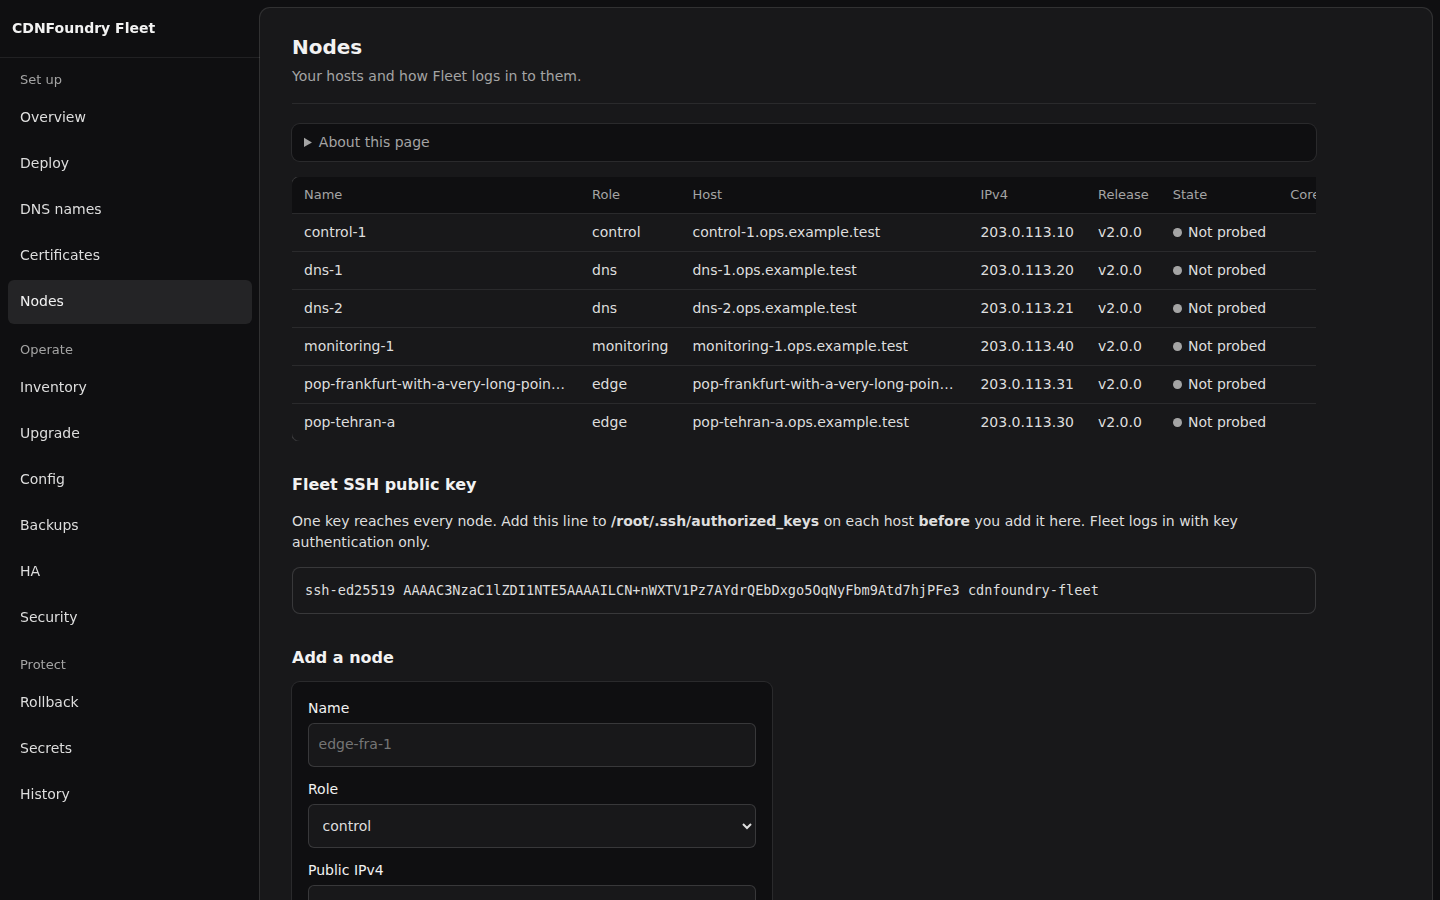
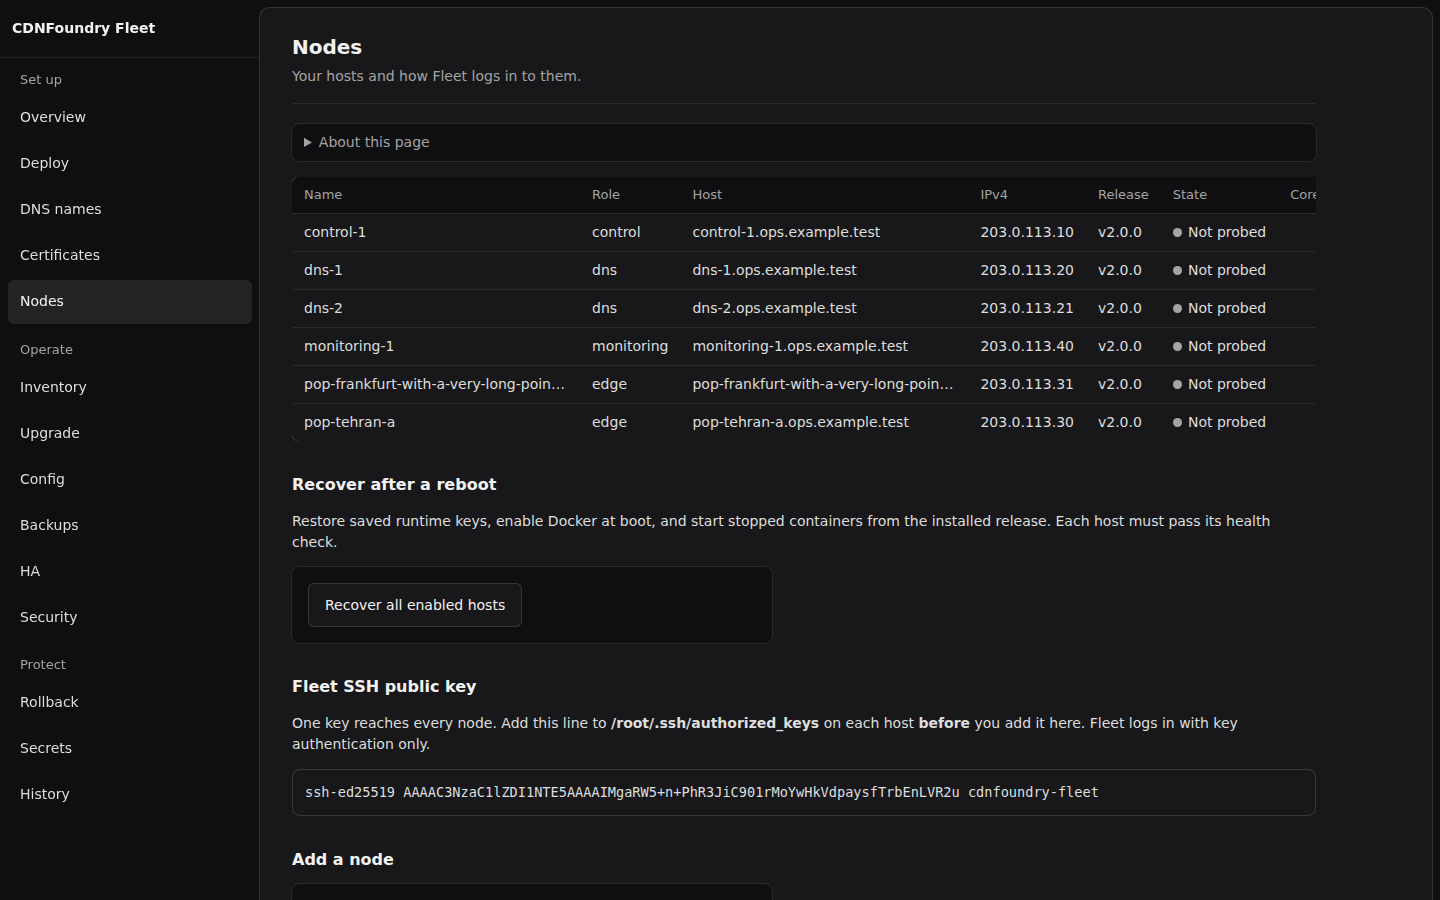
feat: expose host recovery in Fleet web

Changed region(s): [[0.1875, 0.5289, 0.875, 0.6844], [0.1875, 0.7156, 0.875, 0.84], [0.1875, 0.8711, 0.75, 0.9956]]

diff --git a/tests/browser/fleet-specs/fleet.spec.ts b/tests/browser/fleet-specs/fleet.spec.ts
@@ -260,3 +260,17 @@ test('management networks take several CIDRs and are added and removed one at a 
     await page.getByRole('button', { name: 'Remove 2001:db8::/32' }).click();
     await expect(page.getByTestId('management-networks-open')).toBeVisible();
 });
+
+test('recovery offers the fleet and one host, and reports missing saved keys', async ({ page }) => {
+    await page.goto('/nodes/pop-tehran-a');
+    await expect(page.getByRole('button', { name: 'Recover this host', exact: true })).toBeEnabled();
+    await expectAccessible(page);
+    await noHorizontalOverflow(page);
+    await page.goto('/nodes');
+    await page.getByRole('button', { name: 'Recover all enabled hosts', exact: true }).click();
+    await expect(page).toHaveURL(/\/jobs\//);
+    await expect(page.locator('[data-state="failed"]')).toBeVisible({ timeout: 30_000 });
+    await expect(page.locator('main')).toContainText('existing runtime material is missing from the vault');
+    await expectAccessible(page);
+    await noHorizontalOverflow(page);
+});

diff --git a/scripts/cdnfoundry_fleet/web.py b/scripts/cdnfoundry_fleet/web.py
@@ -783,7 +783,9 @@ class FleetWeb:
             key_block = ("<h2>Fleet SSH public key</h2><p>One key reaches every node. Add this line to <b>/root/.ssh/authorized_keys</b> on each host "
                          "<b>before</b> you add it here. Fleet logs in with key authentication only.</p>"
                          f'<pre class="log" tabindex="0" aria-label="Fleet SSH public key">{esc(self.fleet_public_key())}</pre>')
-            return 200, self.layout(path, "Nodes", listing + key_block + "<h2>Add a node</h2>" + self.action_form("/nodes/add", "Add node and show plan", primary=True, fields=fields), flash)
+            recovery = ('<h2>Recover after a reboot</h2><p>Restore saved runtime keys, enable Docker at boot, and start stopped containers from the installed release. Each host must pass its health check.</p>'
+                        + self.action_form("/recover", "Recover all enabled hosts")) if nodes else ""
+            return 200, self.layout(path, "Nodes", listing + recovery + key_block + "<h2>Add a node</h2>" + self.action_form("/nodes/add", "Add node and show plan", primary=True, fields=fields), flash)
         if path.startswith("/nodes/") and path.endswith("/logs"):
             return self._logs_page(path, nodes, query)
         if path.startswith("/nodes/"):
@@ -806,7 +808,9 @@ class FleetWeb:
                    '<label>Continent code<input name="continent" value="NA" maxlength="2" required placeholder="NA"></label>') if enroll else ""
             body = (facts + self._node_hardware(name, node) + "<h2>SSH login</h2>" + f"<p>Fleet logs in as <b>{esc(login.user)}@{esc(login.host)}:{login.port}</b>. The Fleet key must be on this host (see the <a href=\"/deploy#connect\">Deploy page</a>).</p>" + ssh_form
                     + "<h2>Install only this host</h2><p>Most people use the <a href=\"/deploy\">Deploy page</a> to install everything in order.</p><ol>" + "".join(f"<li>{esc(s.label())}</li>" for s in plan.steps) + "</ol>"
-                    + self.action_form(f"/nodes/{esc(name)}/bootstrap", "Install and start this node", primary=True, fields=geo))
+                    + self.action_form(f"/nodes/{esc(name)}/bootstrap", "Install and start this node", primary=True, fields=geo)
+                    + '<h2>Recover after a reboot</h2><p>Restore this host\'s saved runtime keys and start stopped containers from its installed release.</p>'
+                    + self.action_form(f"/nodes/{esc(name)}/recover", "Recover this host"))
             return 200, self.layout(path, name, body, flash)
         if path == "/inventory":
             return 200, self.layout(path, "Inventory", self._inventory_page(nodes), flash)
@@ -1092,6 +1096,11 @@ class FleetWeb:
             return self._sync(f"configure-{feature}", save_feature, "/config", f"{feature.capitalize()} settings saved. Deploy the changes to send them to the hosts.")
         if path == "/config/apply":
             return job("Deploy changed configs", lambda e: e.apply_config(), "config")
+        if path == "/recover":
+            return job("Recover enabled hosts", lambda e: e.recover(), "recover")
+        if path.startswith("/nodes/") and path.endswith("/recover"):
+            name = path.split("/")[2]
+            return job(f"Recover {name}", lambda e: e.recover([name]), "recover")
         if path == "/rollback/run":
             need("ROLLBACK")
             return job("Roll back the fleet", lambda e: f"returned {e.rollback()}", "rollback")

diff --git a/tests/fleet/test_web.py b/tests/fleet/test_web.py
@@ -617,3 +617,24 @@ def test_management_networks_are_added_and_removed_one_at_a_time_from_the_config
     assert status == 400 and "Not in the management networks" in body
     status, body, _ = post(port, "/management-networks/add", {"csrf": "wrong", "networks": "192.0.2.0/24"})
     assert status == 400
+
+
+@pytest.mark.parametrize('path,names', [('/recover', None), ('/nodes/control-1/recover', ['control-1'])])
+def test_recovery_runs_the_shared_engine_as_a_background_job(served, monkeypatch, path, names):
+    from cdnfoundry_fleet.actions import Outcome
+    from cdnfoundry_fleet.engine import FleetEngine
+    web, port = served
+    add_node(web, port)
+    called = []
+    monkeypatch.setattr(FleetEngine, 'recover', lambda self, selected=None: called.append(selected) or Outcome(True, ['control-1']))
+    assert 'Recover all enabled hosts' in get(port, '/nodes')[1]
+    assert 'Recover this host' in get(port, '/nodes/control-1')[1]
+    status, _, response = post(port, path, {'csrf': web.csrf})
+    assert status == 303
+    assert 'Finished' in wait_job(port, response.getheader('Location'))
+    assert called == [names]
+
+
+def test_recovery_rejects_a_missing_csrf_token(served):
+    _, port = served
+    assert post(port, '/recover', {})[0] == 400

diff --git a/tests/fleet/test_recovery.py b/tests/fleet/test_recovery.py
@@ -64,6 +64,14 @@ def test_unknown_node_is_rejected(tmp_path, monkeypatch):
     assert not calls
 
 
+def test_explicitly_selected_disabled_node_is_rejected(tmp_path, monkeypatch):
+    runner, calls, _ = engine(tmp_path, monkeypatch)
+    runner.state()['nodes']['node']['enabled'] = False
+    with pytest.raises(ValidationError, match='Enable nodes before recovery'):
+        runner.recover(['node'])
+    assert not calls
+
+
 def test_release_mismatch_stops_before_provisioning(tmp_path, monkeypatch):
     runner, _, installed = engine(tmp_path, monkeypatch)
     runner.transport.run = lambda *_a, **_kw: SimpleNamespace(ok=False)

diff --git a/scripts/cdnfoundry_fleet/engine.py b/scripts/cdnfoundry_fleet/engine.py
@@ -334,6 +334,9 @@ class FleetEngine:
         unknown = set(selected) - state["nodes"].keys()
         if unknown:
             raise ValidationError(f"Unknown nodes: {', '.join(sorted(unknown))}")
+        disabled = [n for n in selected if not state["nodes"][n]["enabled"]]
+        if disabled:
+            raise ValidationError(f"Enable nodes before recovery: {', '.join(disabled)}")
         self._missing_access(state, selected)
         targets, done = self.targets(state), []
         material: dict[str, dict[str, bytes]] = {}

diff --git a/docs/operations/fleet-web.md b/docs/operations/fleet-web.md
@@ -205,6 +205,19 @@ cannot, the control panel does not open. You have three ways around that:
 The table lists each node's name, role, host, IPv4 address, release, and state.
 The state is "Not checked" until you run a check.
 
+### Recover after a reboot
+
+After updating the checkout, restart Fleet web. Choose **Recover all enabled hosts** on Nodes,
+or open a host and choose **Recover this host**.
+The action restores its saved runtime keys, enables Docker at boot, starts stopped containers from
+the installed release, and checks their health. Progress and failures appear in the action log.
+It uses the same engine as `cdnfoundry-fleet recover` and does not deploy another release.
+
+Your existing vault must contain the edge's original listener and recovery keys. Missing material
+stops recovery before any hosts change; restore the vault backup rather than generating another key.
+See [boot recovery requirements](fleet-engine.md#recover-after-a-host-reboot), including the systemd
+encrypted credential requirement for edge hosts.
+
 ### Add and install a node
 
 <div class="steps">
